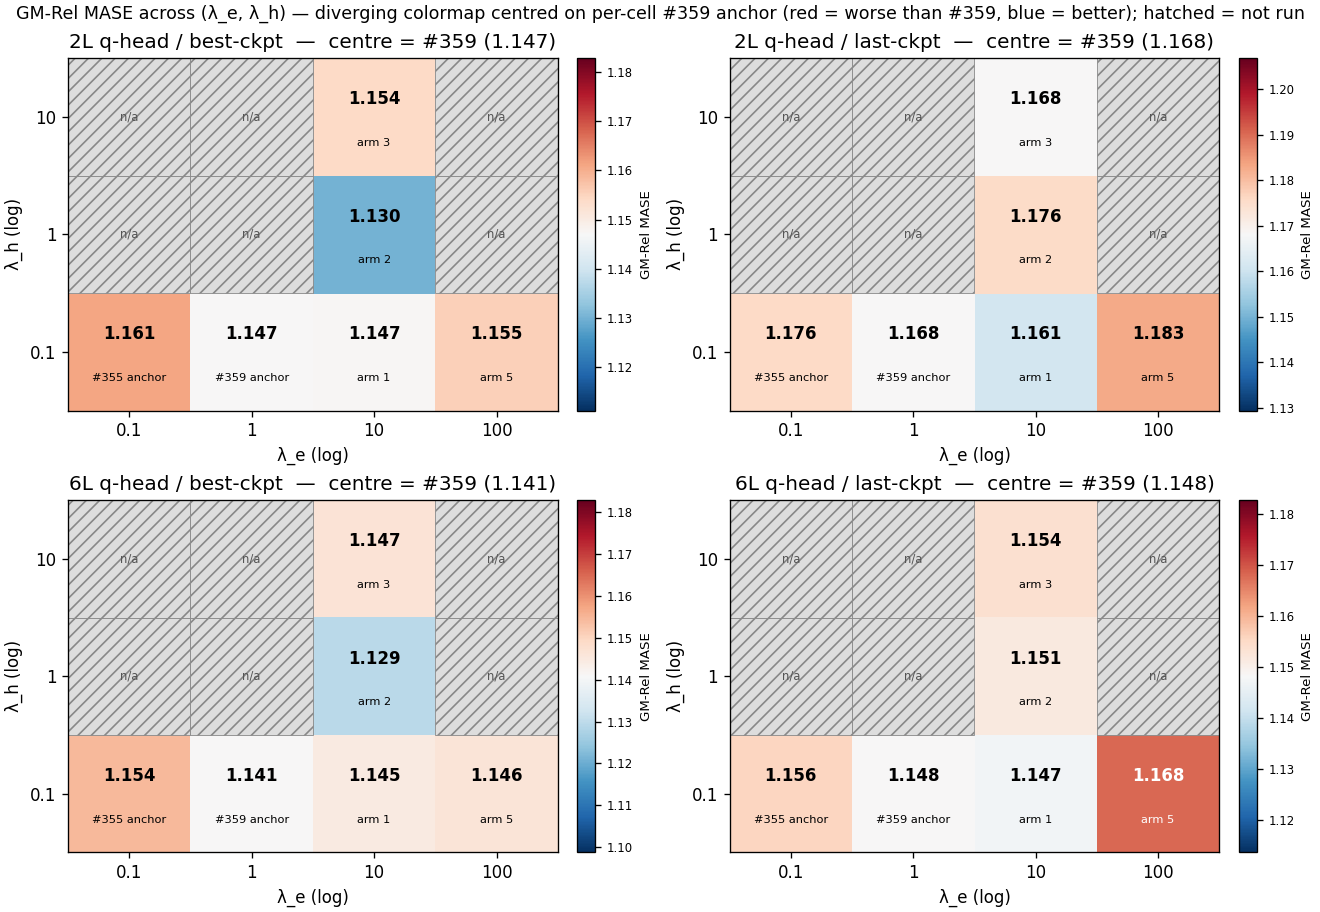
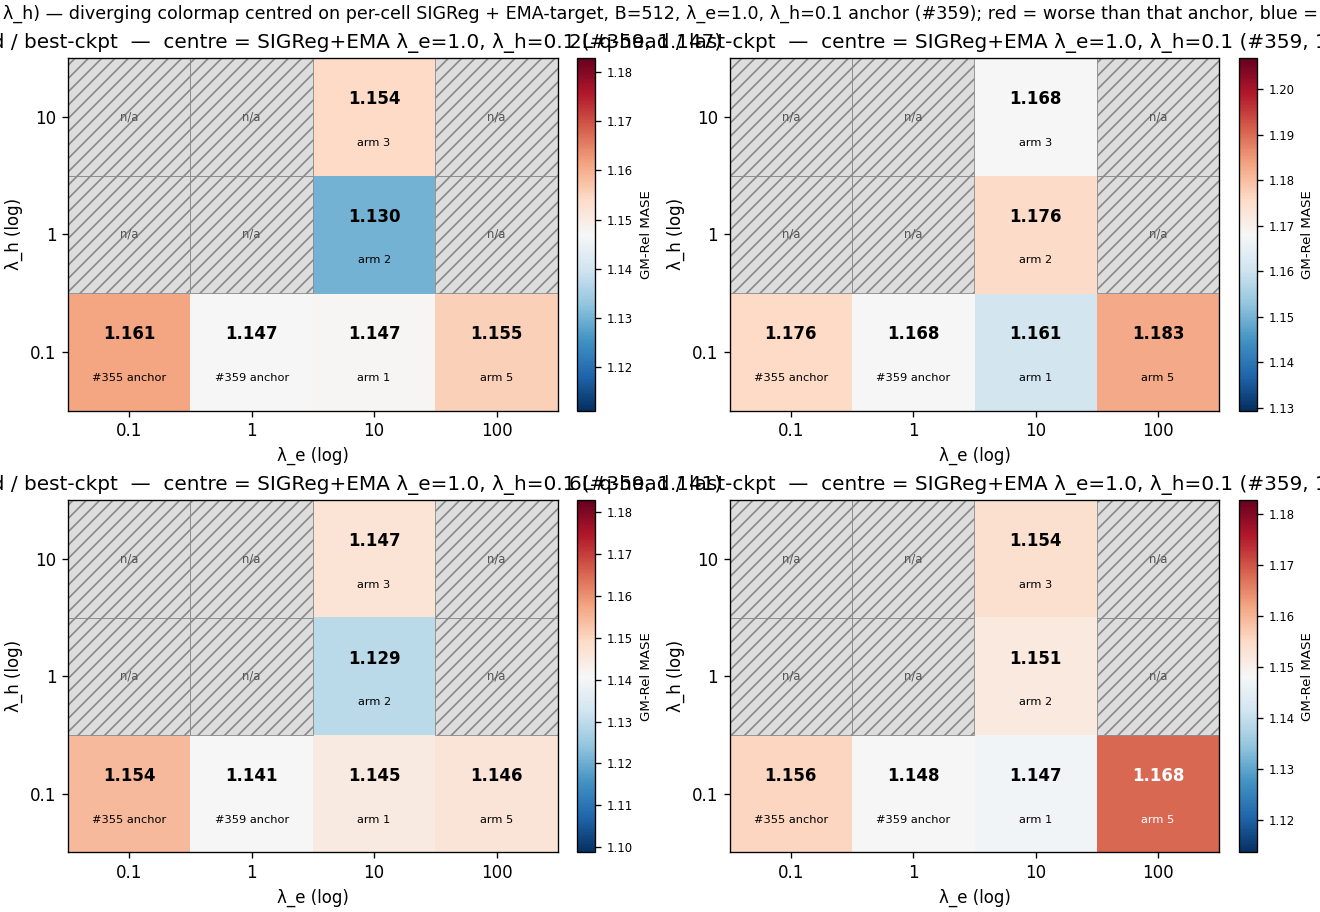
report(#363): iter-9 review — move trajectory diagnostics to annex, heatmap interpretation, vocab pin
- Annex D 'Training diagnostics': moves the SIGReg-inspection and dimension-usage
  trajectory plots + the Tail-50 table out of §Result. §Training trajectory now
  carries only loss_curve.png with a one-line takeaway.
- Heatmap: add an interpretation line naming the un-run (1.0, 1.0) interior, the
  λ_h=0.1 row turning red as λ_e walks 10→100, and the L-shape sweep coverage.
- Vocabulary pin: 'cell' = (q-head, ckpt). Rename heatmap grid squares to 'tile'
  in the caption, script docstring/comments, and figure overlays.
- Captions lead with the recipe name; #359 is parenthetical.
- Drop the noise-level 'arm 3 edges it by 0.0003' clause; replace with 'within
  noise of arm 3'.
- §Scope deviation: drop the 'on user request' journey aside.

Changed region(s): [[0.0, 0.0, 0.9939, 0.0614], [0.0, 0.5219, 0.9939, 0.5526]]

diff --git a/reports/2026-06-24_sigreg_lambda_sweep/scripts/build_heatmap.py b/reports/2026-06-24_sigreg_lambda_sweep/scripts/build_heatmap.py
@@ -1,11 +1,12 @@
 #!/usr/bin/env python3
 # #363 SIGReg λ-sweep — 2D heatmap of GM-Rel MASE over (λ_e, λ_h).
 #
-# 4 panels (2L/best, 2L/last, 6L/best, 6L/last). X axis = λ_e on a log grid
-# {0.1, 1.0, 10.0, 100.0}; Y axis = λ_h on a log grid {0.1, 1.0, 10.0}.
-# Cell colour = GM-Rel MASE on a diverging colormap centred on the per-cell
-# #359 anchor (1.0, 0.1) so red = worse than #359, blue = better. Cell text
-# = GM value. Un-run grid points are drawn with a hatched grey background.
+# 4 panels, one per (q-head depth, backbone checkpoint) cell. X axis = λ_e on
+# a log grid {0.1, 1.0, 10.0, 100.0}; Y axis = λ_h on a log grid {0.1, 1.0,
+# 10.0}. Tile colour = GM-Rel MASE on a diverging colormap centred on the
+# per-cell SIGReg + EMA-target, B=512, λ_e=1.0, λ_h=0.1 anchor (#359), so red
+# = worse than that anchor, blue = better. Tile text = GM value. Un-run grid
+# tiles are drawn with a hatched grey background.
 import argparse
 import sys
 from pathlib import Path
@@ -72,7 +73,7 @@ def heatmap(gm: pd.DataFrame, out: Path):
         im = ax.imshow(grid, cmap="RdBu_r", norm=norm, origin="lower", aspect="auto")
         last_im = im
 
-        # hatch the un-run cells
+        # hatch the un-run tiles
         for (le, lh) in UNRUN:
             xi = LAMBDA_E.index(le)
             yi = LAMBDA_H.index(lh)
@@ -82,7 +83,7 @@ def heatmap(gm: pd.DataFrame, out: Path):
             ax.text(xi, yi, "n/a", ha="center", va="center",
                     fontsize=7.0, color="#555555", zorder=3)
 
-        # value overlay + arm tag on each populated cell
+        # value overlay + arm tag on each populated tile
         for (le, lh), (arm_key, tag) in GRID_ARM.items():
             xi = LAMBDA_E.index(le)
             yi = LAMBDA_H.index(lh)
@@ -102,15 +103,16 @@ def heatmap(gm: pd.DataFrame, out: Path):
         ax.set_yticklabels([f"{v:g}" for v in LAMBDA_H])
         ax.set_xlabel("λ_e (log)")
         ax.set_ylabel("λ_h (log)")
-        ax.set_title(f"{head} q-head / {ckpt}-ckpt  —  centre = #359 ({anchor_val:.3f})")
+        ax.set_title(f"{head} q-head / {ckpt}-ckpt  —  centre = SIGReg+EMA λ_e=1.0, λ_h=0.1 (#359, {anchor_val:.3f})")
 
         cb = fig.colorbar(im, ax=ax, fraction=0.046, pad=0.04)
         cb.set_label("GM-Rel MASE", fontsize=8)
         cb.ax.tick_params(labelsize=7)
 
     fig.suptitle(
-        "GM-Rel MASE across (λ_e, λ_h) — diverging colormap centred on per-cell #359 anchor "
-        "(red = worse than #359, blue = better); hatched = not run",
+        "GM-Rel MASE across (λ_e, λ_h) — diverging colormap centred on per-cell "
+        "SIGReg + EMA-target, B=512, λ_e=1.0, λ_h=0.1 anchor (#359); "
+        "red = worse than that anchor, blue = better; hatched = not run",
         fontsize=10.5,
     )
     fig.savefig(out, dpi=120)

diff --git a/reports/2026-06-24_sigreg_lambda_sweep/sigreg_lambda_sweep.md b/reports/2026-06-24_sigreg_lambda_sweep/sigreg_lambda_sweep.md
@@ -21,19 +21,19 @@ The four arms run:
 
 ### (λ_e, λ_h) heatmap
 
-![4-panel GM-Rel MASE heatmap over (λ_e, λ_h), one panel per (q-head depth, backbone checkpoint). X axis = λ_e ∈ {0.1, 1.0, 10.0, 100.0} on a log grid; Y axis = λ_h ∈ {0.1, 1.0, 10.0} on a log grid. Diverging colormap centred on the per-cell #359 anchor (λ_e=1.0, λ_h=0.1): red = worse than #359, blue = better. Cell text = GM-Rel MASE. Hatched cells = (λ_e, λ_h) points not run.](plots/heatmap.png)
+![4-panel GM-Rel MASE heatmap over (λ_e, λ_h), one panel per (q-head depth, backbone checkpoint) cell. X axis = λ_e ∈ {0.1, 1.0, 10.0, 100.0} on a log grid; Y axis = λ_h ∈ {0.1, 1.0, 10.0} on a log grid. Diverging colormap centred on the per-cell SIGReg + EMA-target, B=512, λ_e=1.0, λ_h=0.1 anchor (#359): red = worse than that anchor, blue = better. Tile text = GM-Rel MASE. Hatched tiles = (λ_e, λ_h) points not run.](plots/heatmap.png)
+
+The 2D view shows three things the 1D ladder and the GM table do not: the interior point (λ_e=1.0, λ_h=1.0) was not run (hatched); the λ_h=0.1 row turns red across all 4 panels as λ_e walks from 10 to 100; and 6 of 12 grid tiles are blank, so the sweep covers the L-shape `{λ_e=10.0} ∪ {λ_h=0.1}` rather than the full grid.
 
 ### Training trajectory
 
 ![Log-log total training loss (50-step rolling mean) from step 100 onwards for the 4 sweep arms and the 2 prior λ_h=0.1 anchors. Cutting the first 100 warm-up steps and log axes keep the converged regime readable.](plots/loss_curve.png)
 
-![Log-y trajectories of L_SIGReg(e_t), L_SIGReg(h_t), U_batch(e_t), U_temporal(e_t) from step 100 onwards for the 4 sweep arms and the 2 anchors; rolling 50-step mean. The bottom row is the embedding-side dimension-usage metric U; its 1/K ≈ 0.00260 dotted floor marks all K=384 dims evenly used.](plots/sigreg_e_inspection.png)
-
-![Cross-batch and cross-time dimension usage U on `h_t` (solid) and `e_t` (dashed) for the sweep arms and the 2 anchors from step 100 onwards; clipped to `[1/K, 1]`; the 1/K dotted floor marks all K=384 dims evenly used.](plots/dim_usage.png)
+Final-step total loss ordering is arm 5 (3.88) < arm 1 (4.20) < arm 3 (4.26) < arm 2 (4.55); the two regulariser-side terms make total loss not directly comparable to the GM-Rel MASE ordering. SIGReg-term and dimension-usage trajectories are in §Annex D.
 
 ### GM-Rel MASE — B=512 sweep family
 
-Among the 4 sweep arms, arm 5 (`λ_e=100.0, λ_h=0.1`) holds the highest GM in 3 of 4 cells (all except `6L/best`, where arm 3 edges it by 0.0003). The 4 anchor rows are kept for reference; column-bold marks the row-minimum among the B=512 family (`λ_e=λ_h=0.1` (#355), `λ_e=1.0, λ_h=0.1` (#359), and the 4 sweep arms). The B=1024 cells (#344, #353) are not comparable to the B=512 family and are never bolded, regardless of their value.
+Among the 4 sweep arms, arm 5 (`λ_e=100.0, λ_h=0.1`) holds the highest GM in 3 of 4 cells (`6L/best` is within noise of arm 3). The 4 anchor rows are kept for reference; column-bold marks the row-minimum among the B=512 family (`λ_e=λ_h=0.1` (#355), `λ_e=1.0, λ_h=0.1` (#359), and the 4 sweep arms). The B=1024 cells (#344, #353) are not comparable to the B=512 family and are never bolded, regardless of their value.
 
 | head / ckpt | `enc3+CPC`, B=1024 (#344) | `EMA enc3+CPC`, B=1024 (#353) | `λ_e=λ_h=0.1`, B=512 (#355) | `λ_e=1.0, λ_h=0.1`, B=512 (#359) | arm 1 (10.0, 0.1) | arm 2 (10.0, 1.0) | arm 3 (10.0, 10.0) | arm 5 (100.0, 0.1) |
 | --- | ---: | ---: | ---: | ---: | ---: | ---: | ---: | ---: |
@@ -69,7 +69,7 @@ All other flags identical to the prior arm: `--batch-size 512`, `--sigreg-embedd
 
 ### Scope deviation
 
-The issue's optional 4th arm was `(λ_e=1.0, λ_h=1.0)` (interior point); it was not run. A 5th arm `(λ_e=100.0, λ_h=0.1)` was run instead, on user request, to extend the `λ_h=0.1` ladder one decade further. The arms in this report are therefore labelled 1, 2, 3, 5 — the slot for arm 4 is intentionally empty so arms 1–3 keep the issue-spec ordering.
+The issue's optional 4th arm was `(λ_e=1.0, λ_h=1.0)` (interior point); it was not run. A 5th arm `(λ_e=100.0, λ_h=0.1)` was run instead, to extend the `λ_h=0.1` ladder one decade further. The arms in this report are therefore labelled 1, 2, 3, 5 — the slot for arm 4 is intentionally empty so arms 1–3 keep the issue-spec ordering.
 
 ### Head-matched downstream
 
@@ -155,7 +155,13 @@ Arm 1 differs from the anchor by a single `λ_e` factor of 10×, so Δ vs arm 1 
 - **Plot script.** [`scripts/build_plots.py`](scripts/build_plots.py). Trajectory plots cut the first `PLOT_START_STEP = 100` steps so the warm-up regime does not dominate the y-range; the loss curve uses log x and log y, the SIGReg-inspection panels use log y throughout.
 - **Bar-chart colour map.** grey = `enc3+CPC, B=1024`; blue = `EMA enc3+CPC, B=1024`; red = `SIGReg λ_e=λ_h=0.1`; green = `SIGReg λ_e=1.0, λ_h=0.1`; purple = arm 1; brown = arm 2; pink = arm 3; cyan = arm 5.
 
-### D. Tail-50 trajectories per arm
+### D. Training diagnostics
+
+![Log-y trajectories of L_SIGReg(e_t), L_SIGReg(h_t), U_batch(e_t), U_temporal(e_t) from step 100 onwards for the 4 sweep arms and the 2 anchors; rolling 50-step mean. The bottom row is the embedding-side dimension-usage metric U; its 1/K ≈ 0.00260 dotted floor marks all K=384 dims evenly used.](plots/sigreg_e_inspection.png)
+
+![Cross-batch and cross-time dimension usage U on `h_t` (solid) and `e_t` (dashed) for the sweep arms and the 2 anchors from step 100 onwards; clipped to `[1/K, 1]`; the 1/K dotted floor marks all K=384 dims evenly used.](plots/dim_usage.png)
+
+#### Tail-50 trajectories per arm
 
 Tail-50 mean = mean over steps 12 451–12 500 (last 50 of 12 500 logged steps) of each per-arm `experiments/2026-06-24_sigreg_lambda_sweep/runs/bb_<tag>_losses.csv`; per-arm final-step values are tabulated alongside in [`results/final_trajectories.txt`](results/final_trajectories.txt) so the Tail-50 / final-step distinction is auditable.
 
